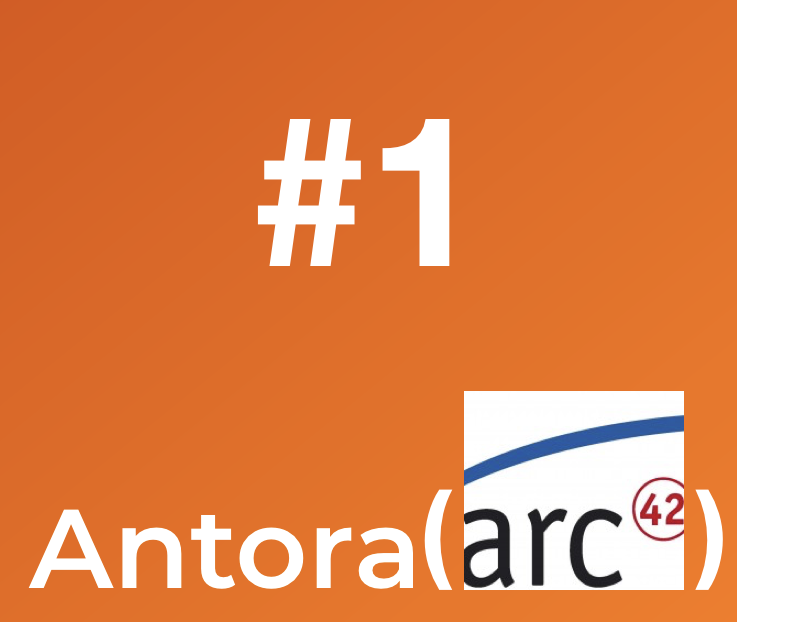
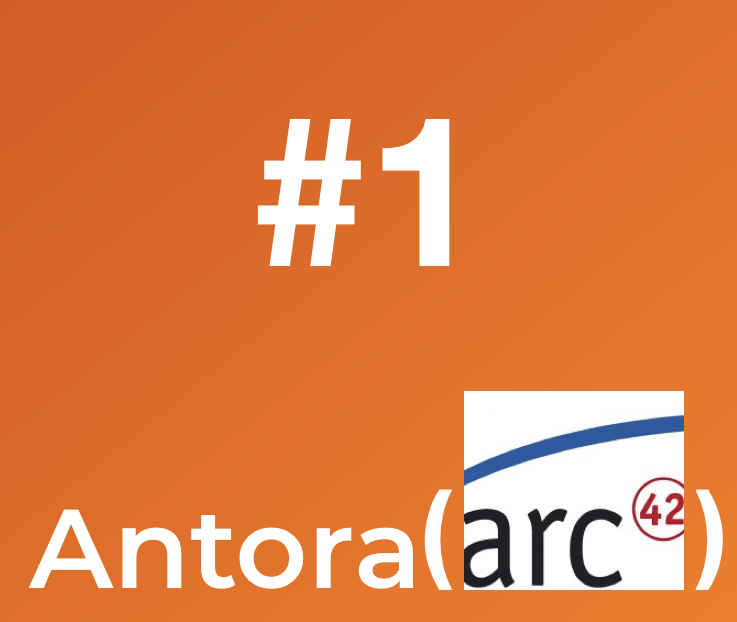
:ant: fix: fix antora img

Changed region(s): [[0.0312, 0.0, 1.0, 1.0], [0.3121, 0.1833, 0.6242, 0.4277]]

diff --git a/css/main.css b/css/main.css
@@ -371,7 +371,7 @@ footer .theme-by {
   filter: grayscale(0%);
 }
 .post-image img {
-  border-radius: 100px;
+  border-radius: 20px;
   height: 192px;
   width: 192px;
 }
